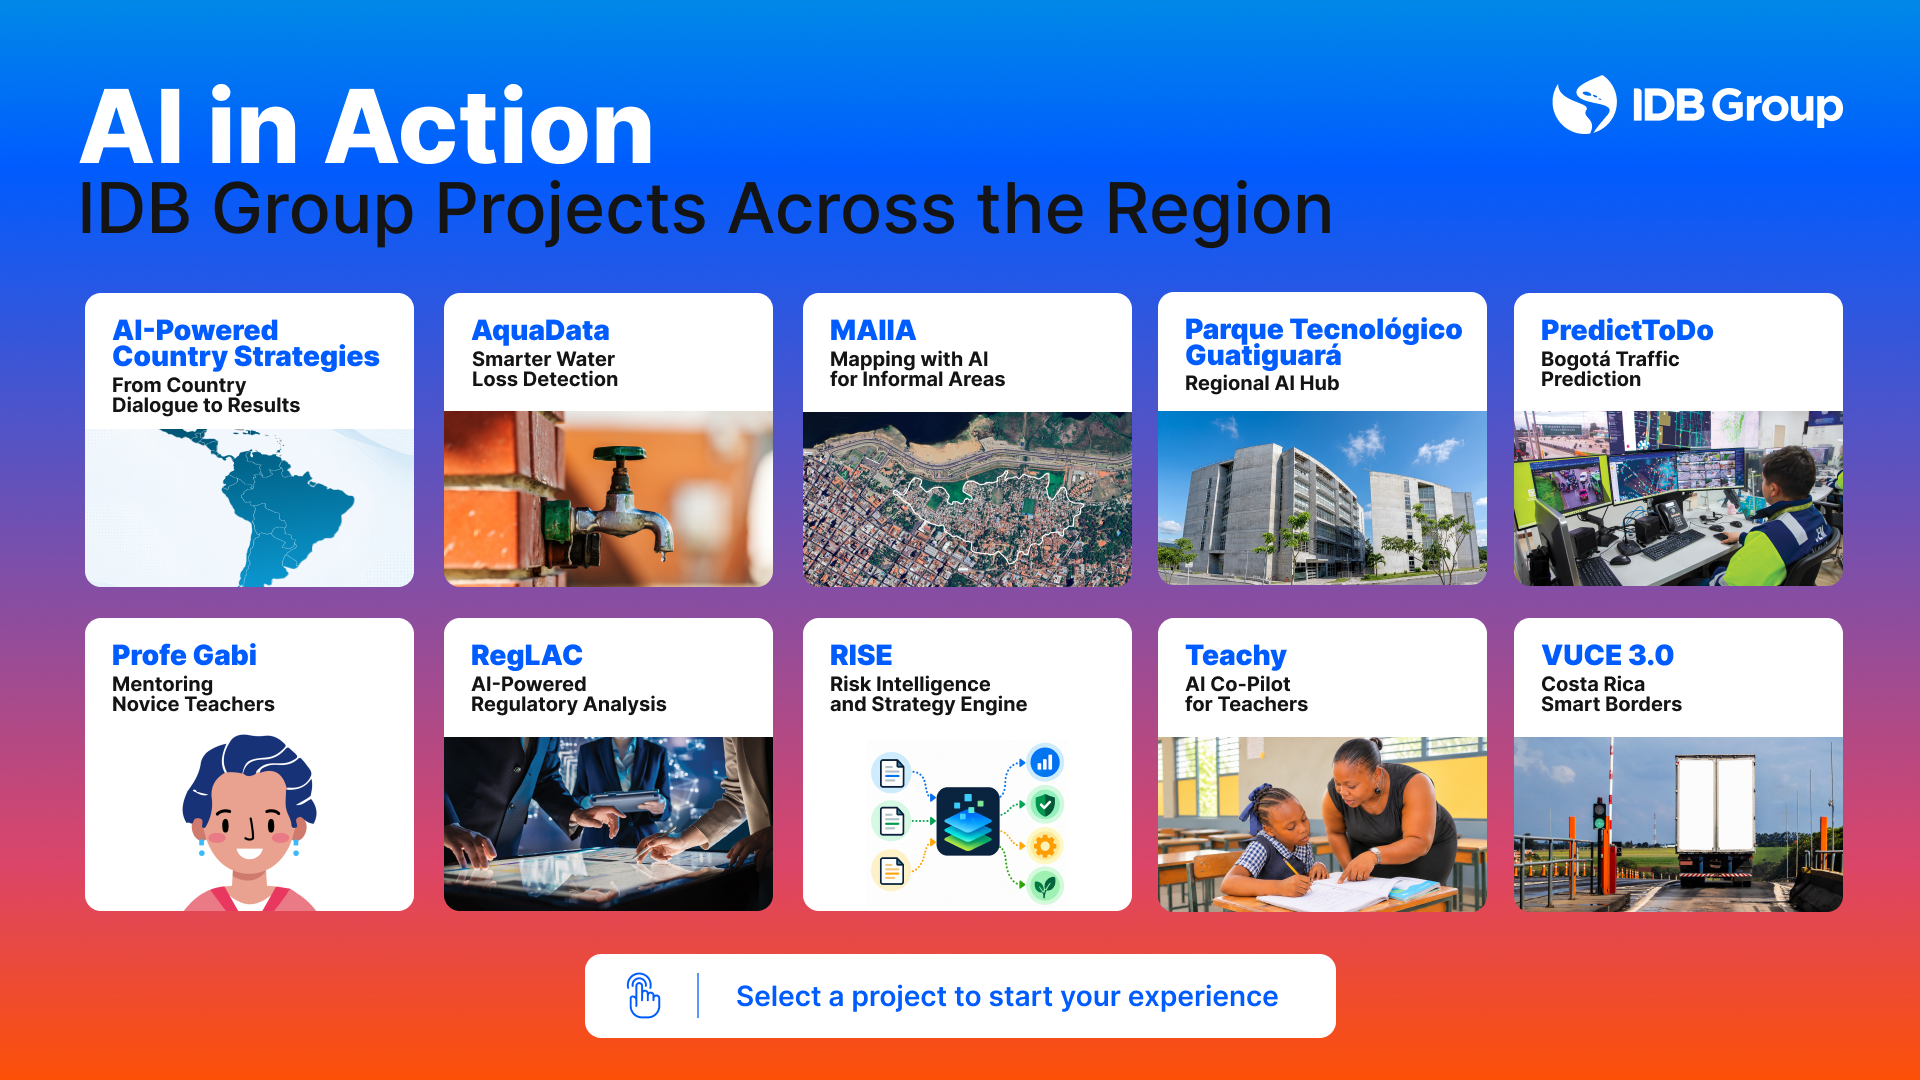
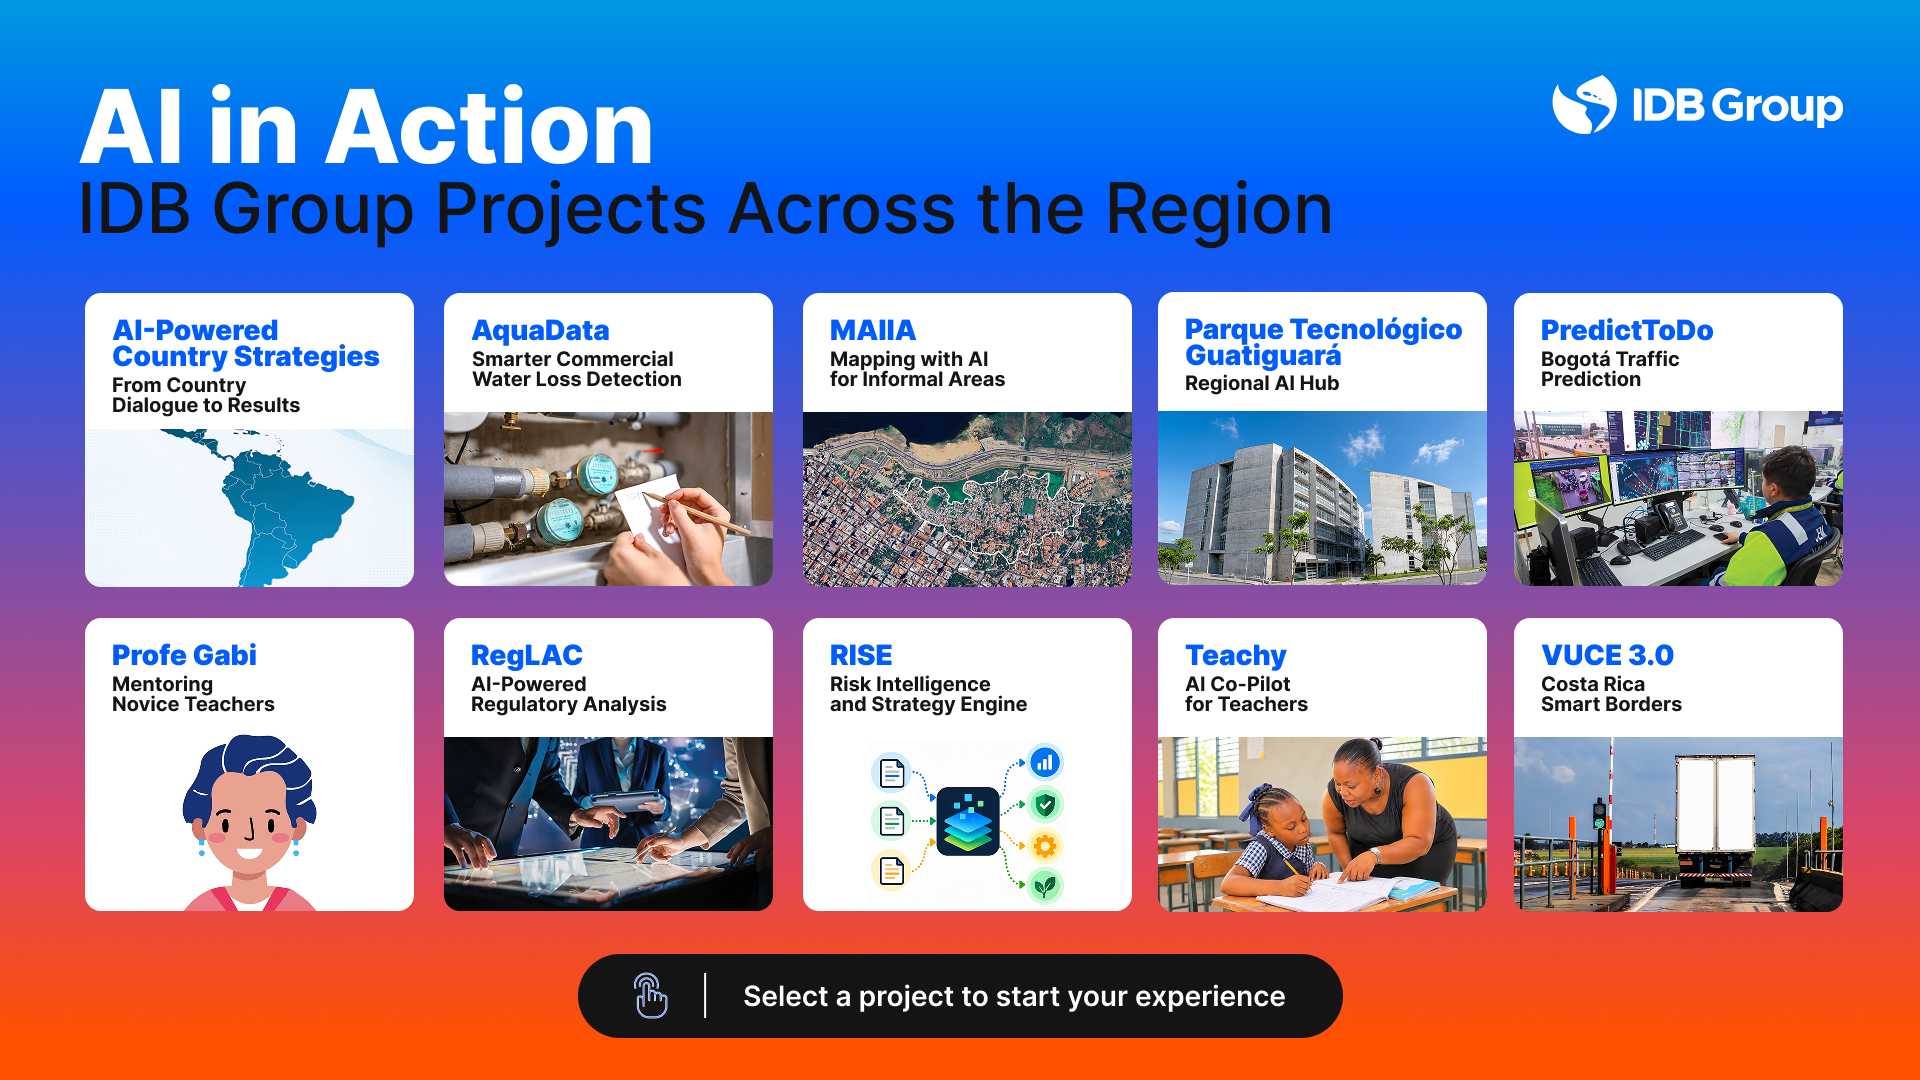
feat(home): update tablet and TV with final November artwork

diff --git a/display.html b/display.html
@@ -1,1 +1,1 @@
-<!doctype html><html lang="en"><head><meta charset="UTF-8"><meta name="viewport" content="width=device-width, initial-scale=1"><title>AI in Action | Main Display</title><link rel="stylesheet" href="shared/styles.css?v=20261029-01"><link rel="stylesheet" href="projects/01-aquadata/aquadata.css?v=20261113-03"><link rel="stylesheet" href="projects/03-costa-rica-smart-borders/module.css?v=20261113-fig-9"><link rel="stylesheet" href="projects/04-parque-tecnologico-guatiguara/module.css?v=20261108-gt-4"><link rel="stylesheet" href="projects/05-profe-gabi/module.css?v=20261109-chat-font22"><link rel="stylesheet" href="projects/05-profe-gabi/artwork.css?v=20261113-start-only"><link rel="stylesheet" href="projects/06-reglac/module.css?v=20261113-portada-1"><link rel="stylesheet" href="projects/07-csd-maiia/module.css"><link rel="stylesheet" href="projects/08-teachy/module.css?v=20261113-portada-1"><link rel="stylesheet" href="projects/11-rsm-rise/module.css?v=20261113-rise-next-step"><link rel="stylesheet" href="projects/10-vpc-country-intelligence/module.css?v=20261106-country-intelligence"><link rel="stylesheet" href="projects/02-bogota-traffic-prediction/rebrand.css?v=20261113-menu-1"><link rel="stylesheet" href="projects/02-bogota-traffic-prediction/insights.css?v=20261113-infografia-2"><link rel="stylesheet" href="projects/02-bogota-traffic-prediction/control-center.css?v=20261113-menu-1"><link rel="stylesheet" href="projects/02-bogota-traffic-prediction/completion.css?v=20261112-figma-12"><link rel="stylesheet" href="shared/home-branding.css?v=20261110-home-art"></head><body><div id="app"></div><script src="shared/projects.js?v=20261029-01"></script><script src="shared/home-art.js?v=20261112-home-final"></script><script src="shared/brand-art.js"></script><script src="shared/brand.js?v=20261029-01"></script><script src="shared/sync.js?v=20261106-country-intelligence"></script><script src="shared/aquadata.js?v=20261112-01"></script><script src="projects/01-aquadata/visual.js?v=20261113-02"></script><script src="projects/05-profe-gabi/state.js?v=20261113-start-only"></script><script src="projects/05-profe-gabi/conversations.js?v=20261113-start-only"></script><script src="projects/05-profe-gabi/artwork.js?v=20261113-start-only"></script><script src="projects/05-profe-gabi/experience.js?v=20261113-start-only"></script><script src="projects/06-reglac/state.js"></script><script src="projects/06-reglac/experience.js?v=20261113-portada-1"></script><script src="projects/07-csd-maiia/state.js"></script><script src="projects/07-csd-maiia/experience.js"></script><script src="projects/07-csd-maiia/artwork.js"></script><script src="projects/08-teachy/experience.js?v=20261113-portada-1"></script><script src="projects/03-costa-rica-smart-borders/cover.js?v=20261113-fig-9"></script><script src="projects/03-costa-rica-smart-borders/tv.js?v=20261113-fig-9"></script><script src="projects/11-rsm-rise/state.js?v=20261113-rise-next-step"></script><script src="projects/11-rsm-rise/game.js?v=20261113-rise-next-step"></script><script src="projects/11-rsm-rise/experience.js?v=20261113-rise-next-step"></script><script src="projects/10-vpc-country-intelligence/state.js?v=20261106-country-intelligence"></script><script src="projects/10-vpc-country-intelligence/translations.js?v=20261106-country-intelligence"></script><script src="projects/10-vpc-country-intelligence/prototype.js?v=20261106-country-intelligence"></script><script src="projects/10-vpc-country-intelligence/experience.js?v=20261106-country-intelligence"></script><script src="shared/bogota-traffic.js?v=20261113-infografia-2"></script><script src="projects/02-bogota-traffic-prediction/visual.js?v=20261113-menu-1"></script><script src="projects/02-bogota-traffic-prediction/vendor/qrcode.js?v=1.4.4"></script><script src="projects/02-bogota-traffic-prediction/ranking.js?v=20261107-01"></script><script src="projects/02-bogota-traffic-prediction/completion.js?v=20261112-figma-12"></script><script src="projects/02-bogota-traffic-prediction/icons.js?v=20261112-figma-12"></script><script src="projects/02-bogota-traffic-prediction/pulse-vial.js?v=20261113-menu-1"></script><script src="projects/02-bogota-traffic-prediction/insights.js?v=20261113-infografia-2"></script><script src="projects/02-bogota-traffic-prediction/exploration.js?v=20261112-figma-12"></script><script src="projects/02-bogota-traffic-prediction/view-state.js?v=20261108-city-01"></script><script src="projects/02-bogota-traffic-prediction/native-map.js?v=20261110-stage-22"></script><script src="projects/02-bogota-traffic-prediction/control-center.js?v=20261113-menu-1"></script><script src="shared/display.js?v=20261113-cr-video-1"></script></body></html>
+<!doctype html><html lang="en"><head><meta charset="UTF-8"><meta name="viewport" content="width=device-width, initial-scale=1"><title>AI in Action | Main Display</title><link rel="stylesheet" href="shared/styles.css?v=20261029-01"><link rel="stylesheet" href="projects/01-aquadata/aquadata.css?v=20261113-03"><link rel="stylesheet" href="projects/03-costa-rica-smart-borders/module.css?v=20261113-fig-9"><link rel="stylesheet" href="projects/04-parque-tecnologico-guatiguara/module.css?v=20261108-gt-4"><link rel="stylesheet" href="projects/05-profe-gabi/module.css?v=20261109-chat-font22"><link rel="stylesheet" href="projects/05-profe-gabi/artwork.css?v=20261113-start-only"><link rel="stylesheet" href="projects/06-reglac/module.css?v=20261113-portada-1"><link rel="stylesheet" href="projects/07-csd-maiia/module.css"><link rel="stylesheet" href="projects/08-teachy/module.css?v=20261113-portada-1"><link rel="stylesheet" href="projects/11-rsm-rise/module.css?v=20261113-rise-next-step"><link rel="stylesheet" href="projects/10-vpc-country-intelligence/module.css?v=20261106-country-intelligence"><link rel="stylesheet" href="projects/02-bogota-traffic-prediction/rebrand.css?v=20261113-menu-1"><link rel="stylesheet" href="projects/02-bogota-traffic-prediction/insights.css?v=20261113-infografia-2"><link rel="stylesheet" href="projects/02-bogota-traffic-prediction/control-center.css?v=20261113-menu-1"><link rel="stylesheet" href="projects/02-bogota-traffic-prediction/completion.css?v=20261112-figma-12"><link rel="stylesheet" href="shared/home-branding.css?v=20261110-home-art"></head><body><div id="app"></div><script src="shared/projects.js?v=20261029-01"></script><script src="shared/home-art.js?v=20261113-home-final"></script><script src="shared/brand-art.js"></script><script src="shared/brand.js?v=20261029-01"></script><script src="shared/sync.js?v=20261106-country-intelligence"></script><script src="shared/aquadata.js?v=20261112-01"></script><script src="projects/01-aquadata/visual.js?v=20261113-02"></script><script src="projects/05-profe-gabi/state.js?v=20261113-start-only"></script><script src="projects/05-profe-gabi/conversations.js?v=20261113-start-only"></script><script src="projects/05-profe-gabi/artwork.js?v=20261113-start-only"></script><script src="projects/05-profe-gabi/experience.js?v=20261113-start-only"></script><script src="projects/06-reglac/state.js"></script><script src="projects/06-reglac/experience.js?v=20261113-portada-1"></script><script src="projects/07-csd-maiia/state.js"></script><script src="projects/07-csd-maiia/experience.js"></script><script src="projects/07-csd-maiia/artwork.js"></script><script src="projects/08-teachy/experience.js?v=20261113-portada-1"></script><script src="projects/03-costa-rica-smart-borders/cover.js?v=20261113-fig-9"></script><script src="projects/03-costa-rica-smart-borders/tv.js?v=20261113-fig-9"></script><script src="projects/11-rsm-rise/state.js?v=20261113-rise-next-step"></script><script src="projects/11-rsm-rise/game.js?v=20261113-rise-next-step"></script><script src="projects/11-rsm-rise/experience.js?v=20261113-rise-next-step"></script><script src="projects/10-vpc-country-intelligence/state.js?v=20261106-country-intelligence"></script><script src="projects/10-vpc-country-intelligence/translations.js?v=20261106-country-intelligence"></script><script src="projects/10-vpc-country-intelligence/prototype.js?v=20261106-country-intelligence"></script><script src="projects/10-vpc-country-intelligence/experience.js?v=20261106-country-intelligence"></script><script src="shared/bogota-traffic.js?v=20261113-infografia-2"></script><script src="projects/02-bogota-traffic-prediction/visual.js?v=20261113-menu-1"></script><script src="projects/02-bogota-traffic-prediction/vendor/qrcode.js?v=1.4.4"></script><script src="projects/02-bogota-traffic-prediction/ranking.js?v=20261107-01"></script><script src="projects/02-bogota-traffic-prediction/completion.js?v=20261112-figma-12"></script><script src="projects/02-bogota-traffic-prediction/icons.js?v=20261112-figma-12"></script><script src="projects/02-bogota-traffic-prediction/pulse-vial.js?v=20261113-menu-1"></script><script src="projects/02-bogota-traffic-prediction/insights.js?v=20261113-infografia-2"></script><script src="projects/02-bogota-traffic-prediction/exploration.js?v=20261112-figma-12"></script><script src="projects/02-bogota-traffic-prediction/view-state.js?v=20261108-city-01"></script><script src="projects/02-bogota-traffic-prediction/native-map.js?v=20261110-stage-22"></script><script src="projects/02-bogota-traffic-prediction/control-center.js?v=20261113-menu-1"></script><script src="shared/display.js?v=20261113-cr-video-1"></script></body></html>

diff --git a/shared/home-art.js b/shared/home-art.js
@@ -2,7 +2,7 @@
 (function(){
  const cards=[
   {id:'10',name:'AI-Powered Country Strategies',subtitle:'From Country Dialogue to Results'},
-  {id:'01',name:'AquaData',subtitle:'Smarter Water Loss Detection'},
+  {id:'01',name:'AquaData',subtitle:'Smarter Commercial Water Loss Detection'},
   {id:'07',name:'MAIIA',subtitle:'Mapping with AI for Informal Areas'},
   {id:'04',name:'Parque Tecnológico Guatiguará',subtitle:'Regional AI Hub'},
   {id:'02',name:'PredictToDo',subtitle:'Bogotá Traffic Prediction'},
@@ -21,7 +21,7 @@
    const left=columns[index%5]/1920*100,top=(index<5?293:618)/1080*100;
    return `<a class="home-art-target" href="${escape(project.href+stationQuery)}" data-project="${card.id}" aria-label="${escape(card.name+' — '+card.subtitle)}" style="left:${left}%;top:${top}%;width:${329/1920*100}%;height:${294/1080*100}%"></a>`;
   }).join('')}</nav>`:'';
-  return `<main class="home-art-viewport" aria-label="AI in Action — IDB Group Projects Across the Region"><div class="home-art-canvas"><img class="home-art-image" src="assets/home/${interactive?'tablet':'display'}-en.png?v=20261112-home-final" width="1920" height="1080" alt="AI in Action. IDB Group Projects Across the Region. ${interactive?'':cards.map(card=>escape(card.name+' — '+card.subtitle)).join('; ')+'. '}${instruction}." draggable="false">${links}</div></main>`;
+  return `<main class="home-art-viewport" aria-label="AI in Action — IDB Group Projects Across the Region"><div class="home-art-canvas"><img class="home-art-image" src="assets/home/${interactive?'tablet':'display'}-en.png?v=20261113-home-final" width="1920" height="1080" alt="AI in Action. IDB Group Projects Across the Region. ${interactive?'':cards.map(card=>escape(card.name+' — '+card.subtitle)).join('; ')+'. '}${instruction}." draggable="false">${links}</div></main>`;
  }
  window.EXHIBITION_HOME={cards,render};
 })();

diff --git a/index.html b/index.html
@@ -1,1 +1,1 @@
-<!doctype html><html lang="en"><head><meta charset="UTF-8"><meta name="viewport" content="width=device-width, initial-scale=1, viewport-fit=cover"><meta name="theme-color" content="#005cff"><meta name="description" content="AI in Action · IDB Group Projects Across The Region. Select a project on the exhibition tablet."><title>AI in Action - IDB Group Projects Across The Region</title><link rel="stylesheet" href="shared/styles.css"><link rel="stylesheet" href="shared/home-branding.css?v=20261110-home-art"></head><body class="home-page"><div id="app"></div><script src="shared/projects.js"></script><script src="shared/home-art.js?v=20261112-home-final"></script><script src="shared/brand-art.js"></script><script src="shared/brand.js"></script><script src="shared/sync.js"></script><script src="shared/home.js?v=20261110-home-art"></script></body></html>
+<!doctype html><html lang="en"><head><meta charset="UTF-8"><meta name="viewport" content="width=device-width, initial-scale=1, viewport-fit=cover"><meta name="theme-color" content="#005cff"><meta name="description" content="AI in Action · IDB Group Projects Across The Region. Select a project on the exhibition tablet."><title>AI in Action - IDB Group Projects Across The Region</title><link rel="stylesheet" href="shared/styles.css"><link rel="stylesheet" href="shared/home-branding.css?v=20261110-home-art"></head><body class="home-page"><div id="app"></div><script src="shared/projects.js"></script><script src="shared/home-art.js?v=20261113-home-final"></script><script src="shared/brand-art.js"></script><script src="shared/brand.js"></script><script src="shared/sync.js"></script><script src="shared/home.js?v=20261110-home-art"></script></body></html>
